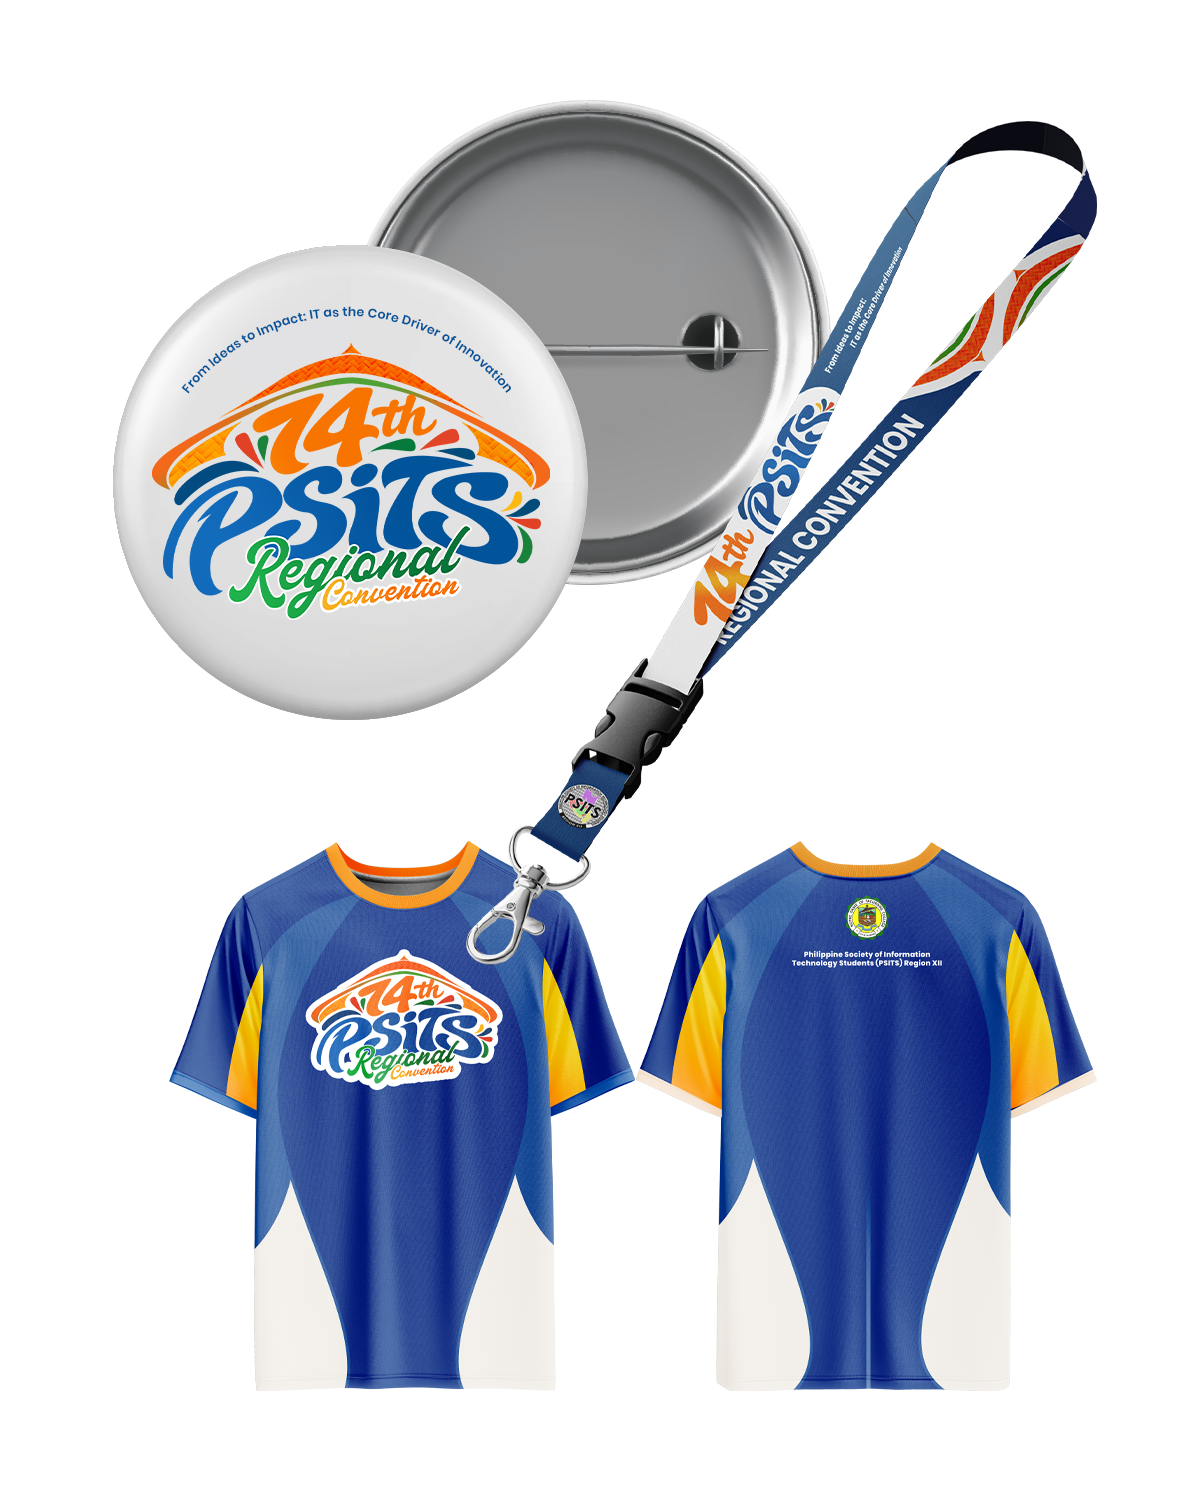
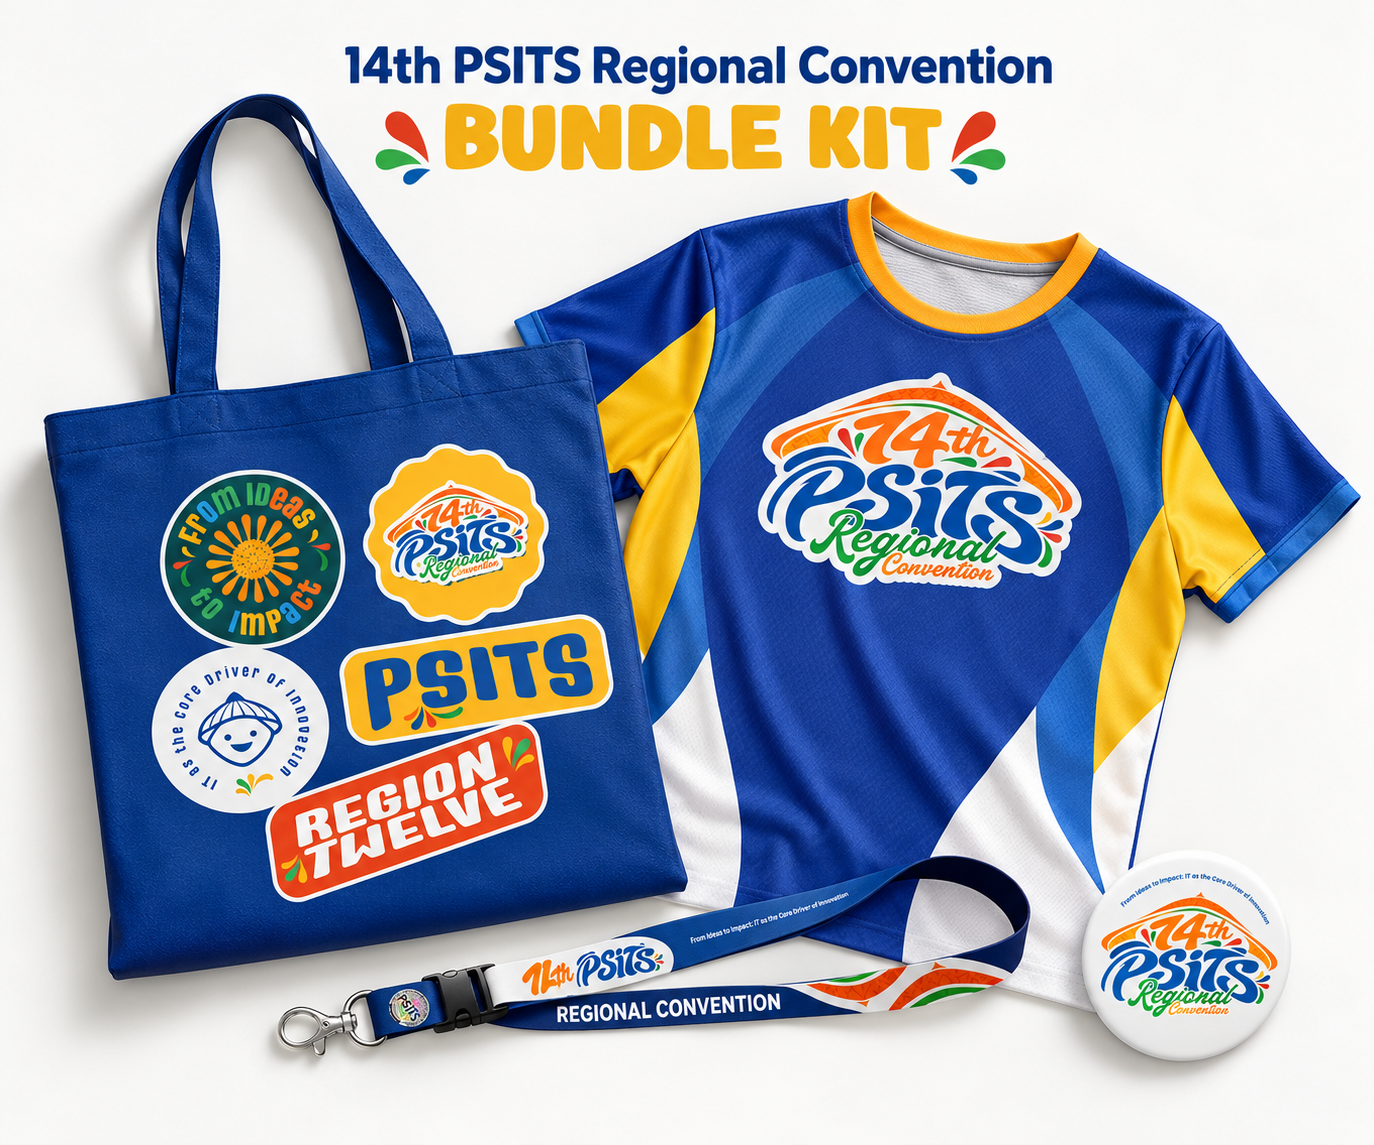
Update Site source

diff --git a/app/page.tsx b/app/page.tsx
@@ -84,7 +84,7 @@ export default function Home() {
       <header><a className="brand" href="#top"><img className="brandLogo" src="/psits-region-xii-seal.png" alt="PSITS Region XII seal"/><div>PSITS<small>REGIONAL CONVENTION</small></div></a><a className="navCta" href="#order">Order Kit</a></header>
       <section className="hero" id="top">
         <div className="heroCopy"><img className="eventLogo" src="/psits-14-official.png" alt="14th PSITS Regional Convention — From Ideas to Impact: IT as the Core Driver of Innovation"/><p className="eyebrow">Official convention bundle</p><h1>ONE KIT.<br/><em>ALL IN.</em></h1><p className="lede">Jersey, lanyard, commemorative pin, and graphic tote—one complete PSITS convention set.</p><div className="price"><small>COMPLETE KIT</small><strong>₱650.00</strong></div><a className="primary" href="#order">Order & upload receipt ↓</a></div>
-        <div className="heroVisual"><img src="/psits-kit.png" alt="PSITS kit with jersey, lanyard and pin"/><div className="stamp">4 PIECES<br/>1 KIT</div></div>
+        <div className="heroVisual"><img src="/psits-kit.png" alt="14th PSITS Regional Convention bundle with jersey, tote bag, lanyard and pin"/><div className="stamp">4 PIECES<br/>1 KIT</div></div>
       </section>
       <section className="kitStrip"><div><b>01</b><span>Convention Jersey</span></div><div><b>02</b><span>Event Lanyard</span></div><div><b>03</b><span>Button Pin</span></div><div><b>04</b><span>Graphic Tote</span></div></section>
       <section className="orderSection" id="order">
